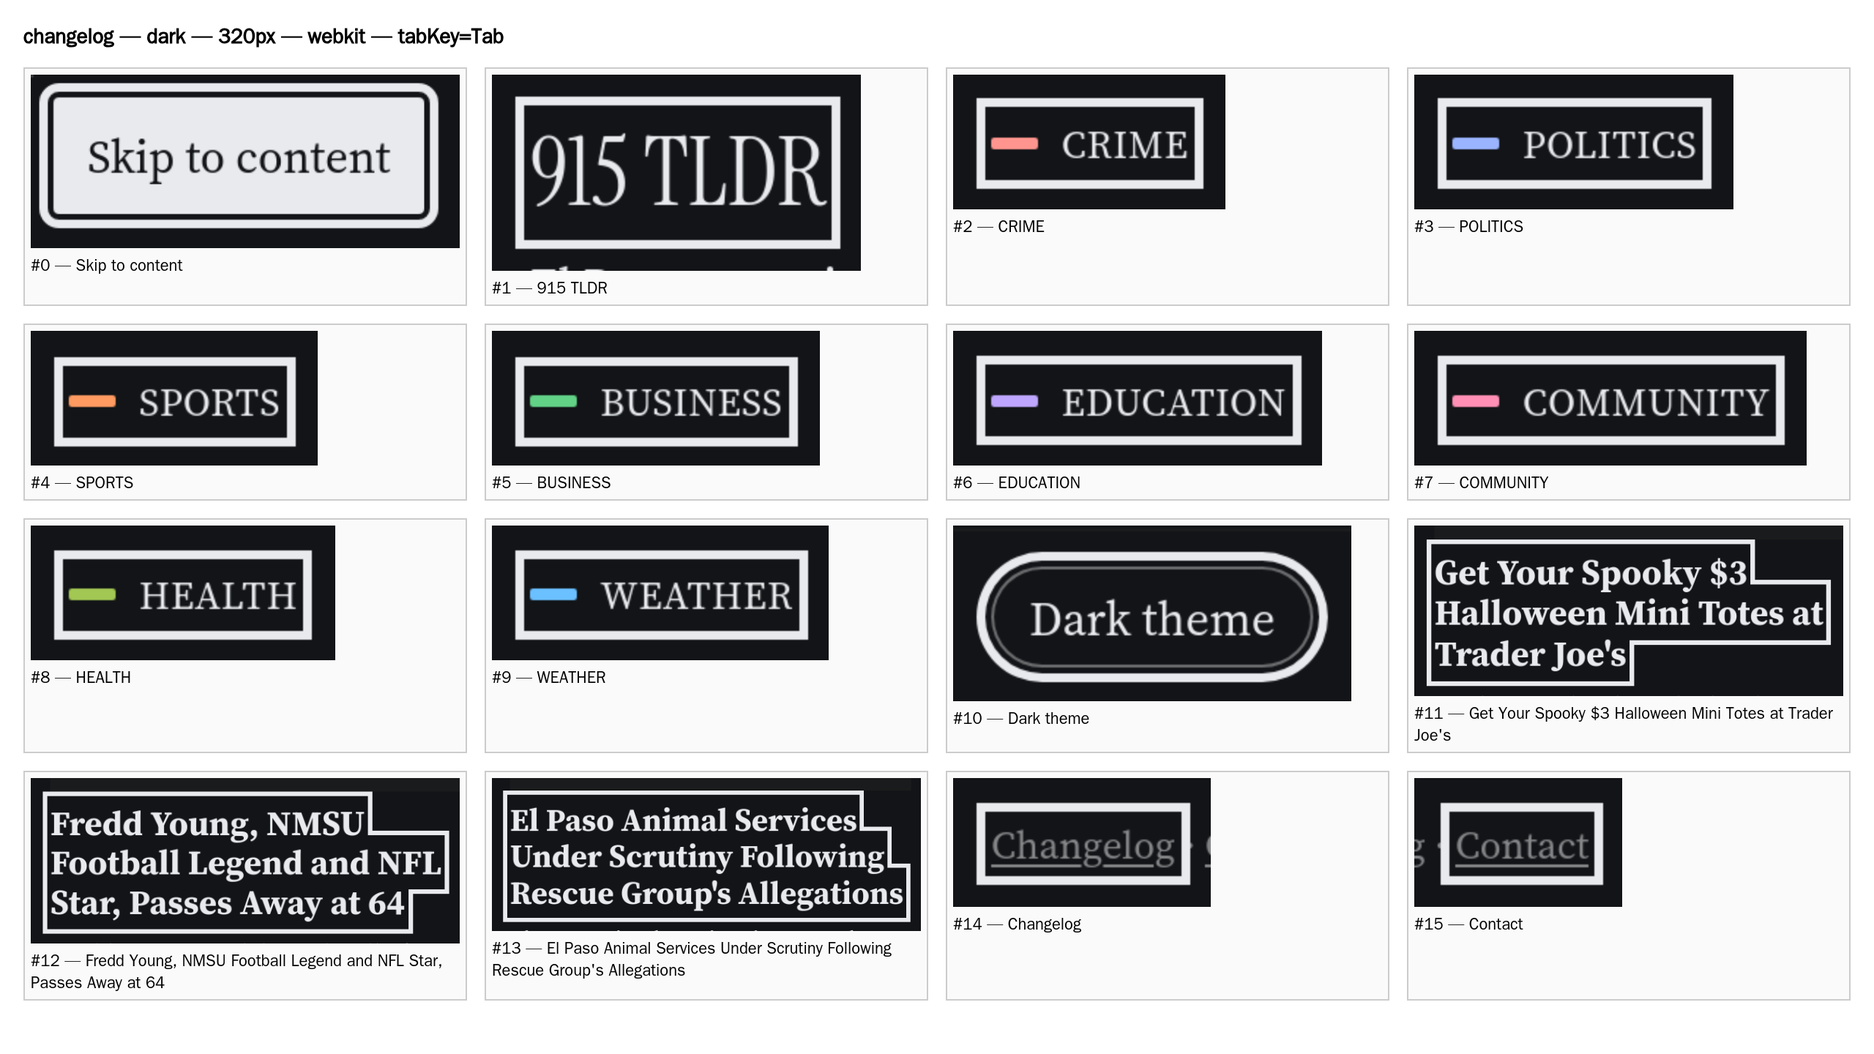
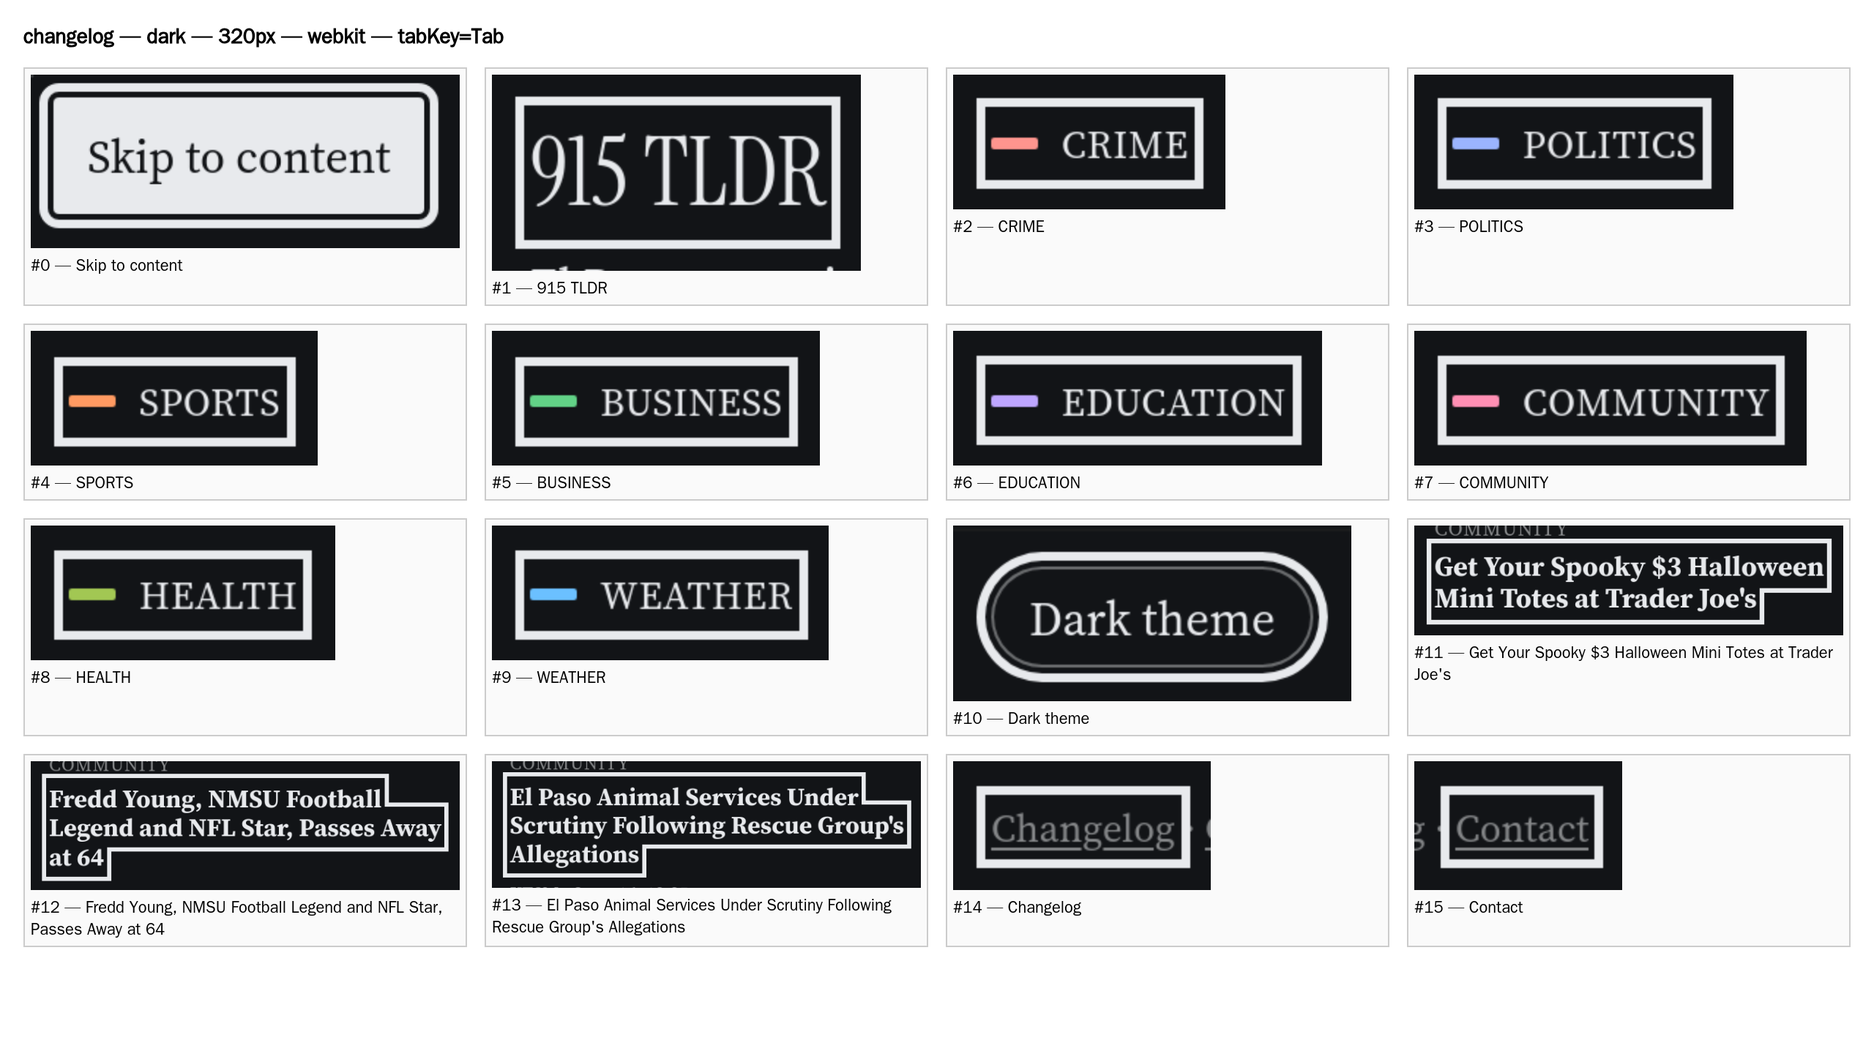
feat(01-20): changelog dispatch placement fixed, adopts rail layout (revision request 4, Task 1)
- Reproduced the squeeze before any fix: real, confined to >=80em (1280/1920px)
  in both engines; 320/768/1024px were never affected.
- style.css: explicit grid-template-areas ("date title"/"date body") replace
  the old two-column auto-placement rule that dropped the body under the date
  column; dropped base max-width on [data-lede]/[data-dispatch] (now full
  width below 64em); reading column unset to max-width:none for changelog at
  >=64em since its own children already carry --measure individually.
- changelog.html: main gets data-layout="with-rail", h1/lede/dispatches wrap
  in div[data-reading-column], trailing grid becomes aside[data-rail] with
  three compact cards (01-19 format).
- layout.spec.ts: new "layout: changelog" block proving date/title/body
  placement and no-scroll at all five widths, both engines.

Changed region(s): [[0.0, 0.5, 1.0, 0.9375]]

diff --git a/design/mockups/changelog.html b/design/mockups/changelog.html
@@ -68,7 +68,8 @@
 
 <button type="button" data-theme-toggle hidden aria-pressed="false" data-i18n="theme-toggle">Dark theme</button>
 
-<main id="main" tabindex="-1">
+<main id="main" tabindex="-1" data-layout="with-rail">
+<div data-reading-column>
   <h1>Changelog</h1>
   <p data-lede>915 TLDR is built in the open. Every change, in plain English, newest first.</p>
 
@@ -119,34 +120,31 @@
     <h2>Admin Automation &amp; About Page Redesign</h2>
     <p data-dispatch-body><span data-item data-item-sentence>Admin dashboard now shows real-time fetch status and automation health</span> <span data-item data-item-sentence>About page redesigned with clearer mission statement</span> <span data-item data-item-sentence>Source management improved with one-click enable/disable</span> <span data-item data-item-sentence>Added statistics dashboard showing article coverage by category</span></p>
   </article>
+</div>
 
-  <h2 data-grid-heading>Latest Stories</h2>
-  <section data-grid aria-label="Latest stories">
-    <article data-card data-uuid="326af4d4-ff96-4dec-8da2-a02085a802b3" data-category="community">
-      <span data-stripe></span>
-      <p data-category-name>Community</p>
-      <div data-frame><img src="https://www.ktsm.com/wp-content/uploads/sites/38/2026/09/FEATURE_Trader-Joes-3-Halloween-mini-totes-are-returning-so-prepare-for-chaos.jpg?w=900" width="1200" height="800" loading="lazy" alt=""></div>
-      <h3><a href="article.html">Get Your Spooky $3 Halloween Mini Totes at Trader Joe's</a></h3>
-      <div data-summary><p>Trader Joe&#39;s has launched its latest collection of $3 mini tote bags, featuring festive Halloween designs. These limited-edition totes are expected to be popular among shoppers, especially those looking to celebrate the spooky season. The bags are available for purchase at Trader Joe&#39;s locations, and fans are encouraged to visit soon, as these items tend to sell out quickly. This initiative not only adds a fun element to Halloween shopping but also promotes sustainability through reusable bags.</p></div>
-      <p data-byline><span data-source>KTSM</span> · <time datetime="2026-09-16T13:49:20-06:00">Sept. 16, 1:49 p.m.</time></p>
-    </article>
-    <article data-card data-uuid="aee43053-15ad-41e3-8560-2e86a6dc114e" data-category="community">
-      <span data-stripe></span>
-      <p data-category-name>Community</p>
-      <div data-frame><img src="https://kvia.com/wp-content/uploads/2026/09/fredd-young.webp" width="1200" height="800" loading="lazy" alt=""></div>
-      <h3><a href="article.html">Fredd Young, NMSU Football Legend and NFL Star, Passes Away at 64</a></h3>
-      <div data-summary><p>Fredd Young, a celebrated Hall of Famer from New Mexico State University (NMSU) and former Seattle Seahawks player, has died at the age of 64. Young was a standout linebacker for the Aggies from 1980 to 1983, setting a record with six sacks in a single game against LA Tech in 1983. Drafted by the Seahawks in 1984, he played seven seasons in the NFL, participating in 101 games and starting 79. His contributions to football and the Las Cruces community were recognized in 1991 when he was inducted into the U.S. Bank/NM State Athletics Hall of Fame. His legacy is remembered fondly by NMSU Athletics, highlighting his significant impact on the sport and local community.</p></div>
-      <p data-byline><span data-source>KVIA</span> · <time datetime="2026-09-16T12:39:04-06:00">Sept. 16, 12:39 p.m.</time></p>
-    </article>
-    <article data-card data-uuid="df2e5a2b-46e0-4b0f-b7e2-fc98dc975d69" data-category="community">
-      <span data-stripe></span>
-      <p data-category-name>Community</p>
-      <div data-frame><img src="https://www.ktsm.com/wp-content/uploads/sites/38/2024/05/El-Paso-Animal-Services.jpg?w=897" width="1200" height="800" loading="lazy" alt=""></div>
-      <h3><a href="article.html">El Paso Animal Services Under Scrutiny Following Rescue Group's Allegations</a></h3>
-      <div data-summary><p>El Paso Animal Services is currently under investigation due to serious allegations raised by the local nonprofit, Paws for Promise. The organization claims that animals returned from the city&#39;s facilities have exhibited health issues, prompting concerns about the procedures in place. A representative from Paws for Promise shared these concerns through a Facebook video, highlighting the potential impact on animal welfare. This situation is significant as it raises questions about the standards of care provided by Animal Services and the implications for local animal rescue efforts.</p></div>
-      <p data-byline><span data-source>KTSM</span> · <time datetime="2026-09-16T12:35:48-06:00">Sept. 16, 12:35 p.m.</time></p>
-    </article>
-  </section>
+  <aside data-rail aria-label="Latest stories">
+    <h2 id="rail-latest-heading" data-grid-heading>Latest Stories</h2>
+    <section data-grid aria-labelledby="rail-latest-heading">
+      <article data-card data-card-variant="compact" data-uuid="326af4d4-ff96-4dec-8da2-a02085a802b3" data-category="community">
+        <span data-stripe></span>
+        <p data-category-name>Community</p>
+        <h3><a href="article.html">Get Your Spooky $3 Halloween Mini Totes at Trader Joe's</a></h3>
+        <p data-byline><span data-source>KTSM</span> · <time datetime="2026-09-16T13:49:20-06:00">Sept. 16, 1:49 p.m.</time></p>
+      </article>
+      <article data-card data-card-variant="compact" data-uuid="aee43053-15ad-41e3-8560-2e86a6dc114e" data-category="community">
+        <span data-stripe></span>
+        <p data-category-name>Community</p>
+        <h3><a href="article.html">Fredd Young, NMSU Football Legend and NFL Star, Passes Away at 64</a></h3>
+        <p data-byline><span data-source>KVIA</span> · <time datetime="2026-09-16T12:39:04-06:00">Sept. 16, 12:39 p.m.</time></p>
+      </article>
+      <article data-card data-card-variant="compact" data-uuid="df2e5a2b-46e0-4b0f-b7e2-fc98dc975d69" data-category="community">
+        <span data-stripe></span>
+        <p data-category-name>Community</p>
+        <h3><a href="article.html">El Paso Animal Services Under Scrutiny Following Rescue Group's Allegations</a></h3>
+        <p data-byline><span data-source>KTSM</span> · <time datetime="2026-09-16T12:35:48-06:00">Sept. 16, 12:35 p.m.</time></p>
+      </article>
+    </section>
+  </aside>
 </main>
 
 <footer>

diff --git a/design/tests/layout.spec.ts b/design/tests/layout.spec.ts
@@ -156,3 +156,141 @@ test.describe('layout: article', () => {
     }
   }
 });
+
+/**
+ * Changelog layout (revision request 4 — dispatch squeeze bug and
+ * whitespace; the changelog part of revision request 7 — full width at
+ * 768px). Reuses the same [data-layout="with-rail"] / [data-reading-column]
+ * / [data-rail] primitive as article (01-19), applied to eight
+ * [data-dispatch] entries instead of a single article body.
+ */
+
+const DISPATCH_BREAKPOINT = 1280; // 80em at the default 16px root the media query resolves against
+
+interface DispatchRect {
+  date: { left: number; right: number; top: number; bottom: number };
+  h2: { left: number; right: number; top: number; bottom: number };
+  body: { left: number; right: number; top: number; bottom: number };
+}
+
+interface ChangelogGeometry extends MainGeometry {
+  dispatches: DispatchRect[];
+}
+
+async function readChangelogLayout(page: Page): Promise<ChangelogGeometry> {
+  const base = await readLayout(page);
+  const dispatches = await page.evaluate(() => {
+    function rect(el: Element) {
+      const r = el.getBoundingClientRect();
+      return { left: r.left, right: r.right, top: r.top, bottom: r.bottom };
+    }
+    return Array.from(document.querySelectorAll('[data-dispatch]')).map((d) => ({
+      date: rect(d.querySelector('[data-dispatch-date]')!),
+      h2: rect(d.querySelector('h2')!),
+      body: rect(d.querySelector('[data-dispatch-body]')!),
+    }));
+  });
+  return { ...base, dispatches };
+}
+
+test.describe('layout: changelog', () => {
+  for (const { width, theme } of COMBOS) {
+    test(`no horizontal page scroll @${width}px ${theme} @c1`, async ({ page }) => {
+      await openPage(page, 'changelog', { theme, width, height: HEIGHT });
+      expect(
+        await hasHorizontalScroll(page),
+        `changelog @${width}px ${theme}: unexpected horizontal page scroll`
+      ).toBe(false);
+    });
+
+    test(`every dispatch places date, title and body correctly @${width}px ${theme} @c1`, async ({ page }) => {
+      await openPage(page, 'changelog', { theme, width, height: HEIGHT });
+      const layout = await readChangelogLayout(page);
+      expect(layout.dispatches.length, `changelog @${width}px ${theme}: no dispatches found`).toBeGreaterThan(0);
+
+      let prevBottom: number | null = null;
+      for (const [i, d] of layout.dispatches.entries()) {
+        expect(
+          Math.abs(d.body.left - d.h2.left),
+          `changelog @${width}px ${theme} dispatch ${i}: body left ${d.body.left} not within 1px of title left ${d.h2.left}`
+        ).toBeLessThanOrEqual(1);
+
+        if (width >= DISPATCH_BREAKPOINT) {
+          expect(
+            d.body.right,
+            `changelog @${width}px ${theme} dispatch ${i}: body right ${d.body.right} should exceed date right ${d.date.right} + 100`
+          ).toBeGreaterThan(d.date.right + 100);
+
+          expect(
+            d.date.right,
+            `changelog @${width}px ${theme} dispatch ${i}: date right ${d.date.right} should be left of title left ${d.h2.left}`
+          ).toBeLessThan(d.h2.left);
+
+          expect(
+            Math.abs(d.date.top - d.h2.top),
+            `changelog @${width}px ${theme} dispatch ${i}: date top ${d.date.top} not within 2px of title top ${d.h2.top}`
+          ).toBeLessThanOrEqual(2);
+        } else {
+          expect(
+            d.date.bottom,
+            `changelog @${width}px ${theme} dispatch ${i}: date bottom ${d.date.bottom} should be at or above title top ${d.h2.top}`
+          ).toBeLessThanOrEqual(d.h2.top + 1);
+
+          expect(
+            Math.abs(d.date.left - d.h2.left),
+            `changelog @${width}px ${theme} dispatch ${i}: date left ${d.date.left} not within 1px of title left ${d.h2.left}`
+          ).toBeLessThanOrEqual(1);
+        }
+
+        if (prevBottom !== null) {
+          expect(
+            d.date.top,
+            `changelog @${width}px ${theme} dispatch ${i}: top ${d.date.top} should be at or below previous dispatch's bottom ${prevBottom}`
+          ).toBeGreaterThanOrEqual(prevBottom - 1);
+        }
+        prevBottom = Math.max(d.date.bottom, d.h2.bottom, d.body.bottom);
+      }
+    });
+
+    if (width === 320 || width === 768) {
+      test(`reading column spans the page column's full width @${width}px ${theme} @c1`, async ({ page }) => {
+        await openPage(page, 'changelog', { theme, width, height: HEIGHT });
+        const layout = await readLayout(page);
+        expect(layout.colRect, `changelog @${width}px ${theme}: [data-reading-column] not found`).not.toBeNull();
+        const col = layout.colRect!;
+
+        expect(
+          Math.abs(col.left - layout.mainContentLeft),
+          `changelog @${width}px ${theme}: reading column left ${col.left} not within 1px of main content-box left ${layout.mainContentLeft}`
+        ).toBeLessThanOrEqual(1);
+        expect(
+          Math.abs(col.right - layout.mainContentRight),
+          `changelog @${width}px ${theme}: reading column right ${col.right} not within 1px of main content-box right ${layout.mainContentRight}`
+        ).toBeLessThanOrEqual(1);
+      });
+    }
+
+    if (width >= 1024) {
+      test(`rail sits beside the reading column and ends at the page column's right edge @${width}px ${theme} @c1`, async ({
+        page,
+      }) => {
+        await openPage(page, 'changelog', { theme, width, height: HEIGHT });
+        const layout = await readLayout(page);
+        expect(layout.colRect, `changelog @${width}px ${theme}: [data-reading-column] not found`).not.toBeNull();
+        expect(layout.railRect, `changelog @${width}px ${theme}: [data-rail] not found`).not.toBeNull();
+        const col = layout.colRect!;
+        const rail = layout.railRect!;
+
+        expect(
+          rail.left,
+          `changelog @${width}px ${theme}: rail left ${rail.left} should be >= reading column right ${col.right} + 24`
+        ).toBeGreaterThanOrEqual(col.right + 24 - 0.5);
+
+        expect(
+          Math.abs(rail.right - layout.mainContentRight),
+          `changelog @${width}px ${theme}: rail right ${rail.right} not within 1px of main content-box right ${layout.mainContentRight}`
+        ).toBeLessThanOrEqual(1);
+      });
+    }
+  }
+});

diff --git a/design/mockups/style.css b/design/mockups/style.css
@@ -1033,6 +1033,16 @@ body[data-page="article"] main > article [data-frame] {
   [data-layout="with-rail"] > [data-rail] {
     grid-column: 2;
   }
+
+  /* Changelog's reading column holds h1, the lede and eight dispatches, not
+     a single article — its own children ([data-lede], [data-dispatch] h2,
+     [data-dispatch-body]) already carry --measure individually (base rule
+     above the 80em block), so capping the column itself would only add a
+     second, redundant width limit. Unset it here so the column is exactly
+     as wide as its children need. */
+  body[data-page="changelog"] [data-layout="with-rail"] > [data-reading-column] {
+    max-width: none;
+  }
 }
 
 /* ==========================================================================
@@ -1042,13 +1052,11 @@ body[data-page="article"] main > article [data-frame] {
    ========================================================================== */
 
 [data-lede] {
-  max-width: var(--measure);
   margin: 0 0 var(--space-6);
   font-size: var(--step-1);
 }
 
 [data-dispatch] {
-  max-width: var(--measure);
   margin: 0 0 var(--space-6);
   padding-top: var(--space-4);
   border-top: var(--rule-thick) solid var(--ink);
@@ -1080,19 +1088,37 @@ body[data-page="article"] main > article [data-frame] {
 }
 
 @media (min-width: 80em) {
+  /* Revision request 4: the previous rule
+     (display:grid; grid-template-columns:12rem 1fr) left the date, title and
+     body to auto-place into the implicit grid it creates — with only two
+     explicit column tracks and three items, auto-placement put the date in
+     column 1 row 1, the title in column 2 row 1, and then wrapped the body
+     into column 1 row 2 (under the date), squeezing it into the 12rem date
+     column instead of sitting beside the date at the title's own width.
+     Named template-areas placement fixes this explicitly: each item is
+     assigned its own area regardless of source order or implicit grid
+     behaviour. */
   [data-dispatch] {
     display: grid;
-    grid-template-columns: 12rem 1fr;
-    gap: var(--space-5);
-    max-width: none;
+    grid-template-columns: 10rem minmax(0, 1fr);
+    grid-template-areas:
+      "date title"
+      "date body";
+    column-gap: var(--space-5);
   }
 
   [data-dispatch-date] {
+    grid-area: date;
     margin: 0;
   }
 
-  [data-dispatch] h2,
+  [data-dispatch] h2 {
+    grid-area: title;
+    max-width: var(--measure);
+  }
+
   [data-dispatch-body] {
+    grid-area: body;
     max-width: var(--measure);
   }
 }

diff --git a/changelog/2026-09-17-1631_01-20-changelog-dispatch-placement-fixed-adopts-ra.md b/changelog/2026-09-17-1631_01-20-changelog-dispatch-placement-fixed-adopts-ra.md
@@ -1,0 +1,46 @@
+# 2026-09-17 - Changelog dispatch placement fixed, adopts rail layout (revision request 4, Task 1)
+
+**Keywords:** [FEATURE] [BUG_FIX] [TESTING] [STYLING]
+**Session:** Afternoon
+**Commit:** find with `git log --diff-filter=A -1 --format=%H -- changelog/2026-09-17-1631_01-20-changelog-dispatch-placement-fixed-adopts-ra.md`
+
+## What Changed
+
+- File: `design/mockups/style.css`
+  - The `@media (min-width: 80em)` `[data-dispatch]` rule (`display:grid; grid-template-columns:12rem 1fr`) is replaced with explicit `grid-template-areas: "date title" "date body"`. The old rule had only two column tracks for three items (date, title, body); CSS auto-placement put the date in column 1/row 1, the title in column 2/row 1, then wrapped the body into column 1/row 2 — under the date, squeezed to a 12rem width instead of sitting beside the date at the title's own measure. Explicit named areas assign each item its own place regardless of source order.
+  - `[data-lede]` and `[data-dispatch]` drop their base `max-width: var(--measure)` — full width below 64em (changelog part of revision request 7); `[data-dispatch] h2` and `[data-dispatch-body]` carry `--measure` individually inside the 80em block instead.
+  - New rule inside the existing `@media (min-width: 64em)` rail block: `body[data-page="changelog"] [data-layout="with-rail"] > [data-reading-column] { max-width: none; }` — changelog's reading column holds h1, the lede and eight dispatches (not one article), so capping the column itself would be a redundant second width limit on top of each dispatch's own `--measure`.
+- File: `design/mockups/changelog.html`
+  - `main` carries `data-layout="with-rail"`; h1, the lede and all eight dispatches are wrapped in `div[data-reading-column]`, content and order byte-identical to before.
+  - The trailing "Latest Stories" heading and grid become `aside[data-rail][aria-label="Latest stories"]` holding the same three cards, converted to the compact variant (01-19 format: stripe, category name, `h3 > a`, byline — no frame, no summary), so no list element enters `main` (D-11 still holds).
+- File: `design/tests/layout.spec.ts` (new `describe('layout: changelog')`, `@c1`)
+  - Per-dispatch geometry at 320/768/1024/1280/1920px (plus 1280px dark), both engines: body left edge within 1px of title left edge at every width; at >=80em (1280px) the date column ends left of the title and body extends >=100px past the date's right edge; below 80em the date stacks directly above the title; dispatches never overlap vertically; no horizontal page scroll.
+  - Plus the same reading-column-full-width-at-320/768 and rail-beside-column-at->=1024 checks 01-19 established for article.
+
+## Why
+
+Closes revision request 4 from `01-APPROVAL.md`: the owner's screenshot showed each dispatch's body text squeezed into the narrow date column while the title sat alone on the right, labelled "768px". A scripted before-fix reproduction (both engines, 320/768/1024/1280/1920px) showed the squeeze is real but confined to >=80em (1280px, 1920px) — 320/768/1024px were never affected, since the offending rule only applies from `min-width: 80em`. The owner's width label was off; the underlying bug (silent CSS grid auto-placement) was real and is now fixed explicitly. Also closes the changelog half of revision request 7 (full width at 768px) by adopting 01-19's `[data-layout="with-rail"]` primitive.
+
+## Issues Encountered
+
+None — the reproduction confirmed the plan's own premise (auto-placement, not a font or measure bug) before any CSS was touched.
+
+## Dependencies
+
+No new dependencies.
+
+## Testing Notes
+
+- What was tested: `node design/scripts/pw.mjs --project=all design/tests/layout.spec.ts` (30/30, both engines, article + changelog); `MOCKUP_PAGES=changelog node design/scripts/pw.mjs --project=all design/tests/content.spec.ts` (25/25 x2, both engines, including the D-11 no-list and dispatch-fidelity checks); `MOCKUP_PAGES=changelog node design/scripts/pw.mjs --project=all design/tests/structure.spec.ts` (20/20 x2, both engines); `MOCKUP_PAGES=changelog node design/scripts/pw.mjs --project=all design/tests/keyboard-walk.spec.ts` (7/7 x2, both engines); the plan's own node check for the explicit `grid-template-areas` shape — all pass.
+- What wasn't tested: Task 2 (contact page centring, spacing bug) — this plan's second task, not yet run.
+
+## Next Steps
+
+- [ ] Task 2: contact page centred column, spacing fix, layout tests
+- [ ] Write 01-20-SUMMARY.md, update STATE.md/ROADMAP.md, complete the plan
+
+---
+
+**Branch:** feature/phase-01
+**Issue:** N/A
+**Impact:** HIGH — fixes a real layout bug the owner reported and closes the changelog half of the full-width-at-768px request, both proven in real browser geometry at five widths, two engines

diff --git a/changelog/README.md b/changelog/README.md
@@ -10,6 +10,7 @@ Entries are named `YYYY-MM-DD-HHMM_slug.md` and grouped by month, newest first.
 
 | Date | Entry | Keywords |
 |------|-------|----------|
+| 2026-09-17 | [Changelog Dispatch Placement Fixed, Adopts Rail Layout (Revision Request 4, Task 1)](2026-09-17-1631_01-20-changelog-dispatch-placement-fixed-adopts-ra.md) | `[FEATURE]` `[BUG_FIX]` `[TESTING]` `[STYLING]` |
 | 2026-09-17 | [Rail Content Integrity and the Spanish Rail Heading (Task 2)](2026-09-17-1623_01-19-rail-content-integrity-and-the-spanish-rail-.md) | `[FEATURE]` `[TESTING]` |
 | 2026-09-17 | [Right Rail on the Article Page (Revision Request 3, Task 1)](2026-09-17-1620_01-19-right-rail-on-the-article-page-revision-requ.md) | `[FEATURE]` `[TESTING]` `[STYLING]` |
 | 2026-09-17 | [Phase 1 Plan 18 Complete: Summary Markdown and Category Lead Fallback Closed](2026-09-17-1614_01-18-complete-summary-markdown-and-category-lead-.md) | `[DOCUMENTATION]` `[PLANNING]` |
